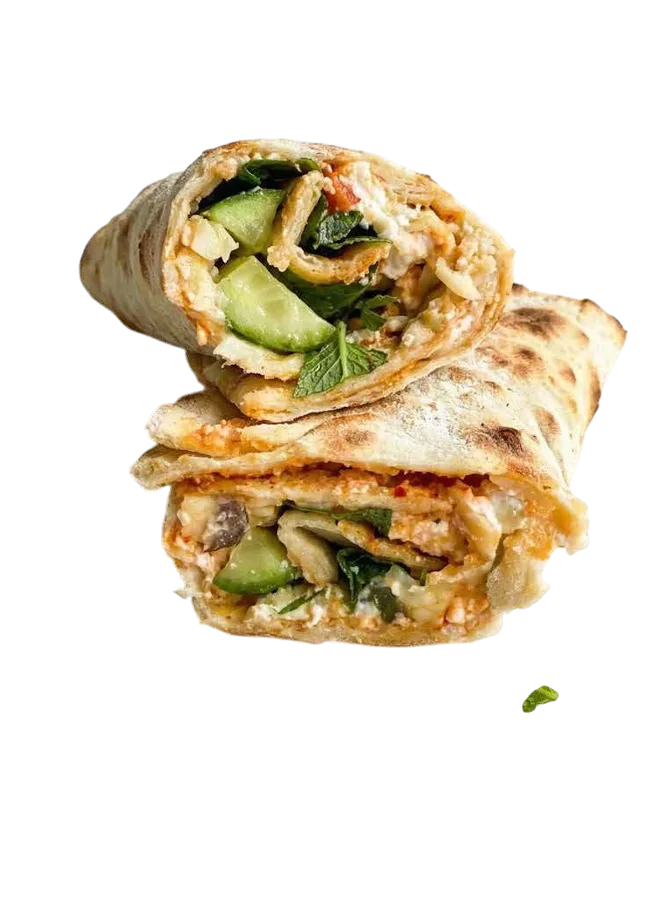
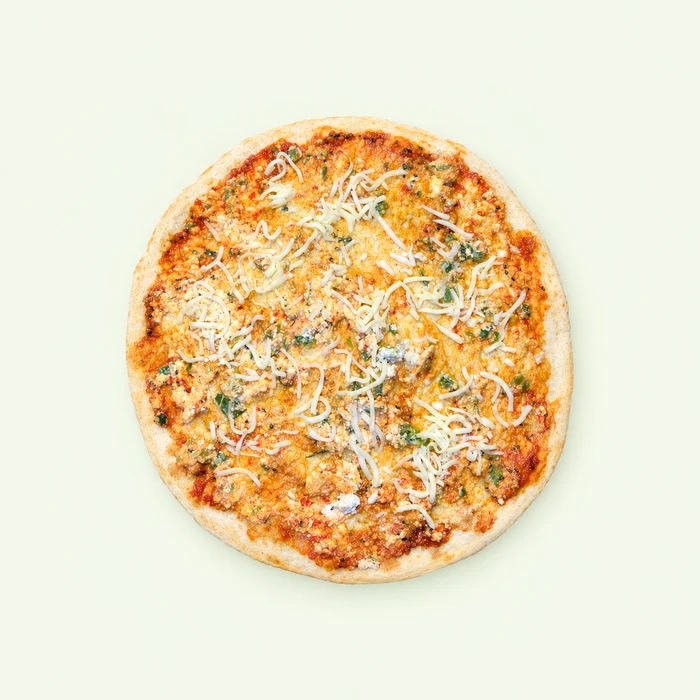
Update Khabzet Saj menu items and Bulghari photo
Rename Akkawi (Al-Nakka), add Bulghari cheese and 3 Cheese ingredients,
drop tomato from Mortadella, and use the new Bulghari Mix photo.

diff --git a/src/routes/menus/khabzetsaj.tsx b/src/routes/menus/khabzetsaj.tsx
@@ -49,6 +49,7 @@ type Product = {
   descriptionAr?: string;
   price: number;
   image?: string;
+  imageBg?: string;
   options?: ProductOption[];
 };
 
@@ -96,10 +97,16 @@ const categories: Category[] = [
       { name: "Keshek Baladi", ar: "كشك بلدي", price: 200000 },
       { name: "Keshek & Cheese", ar: "كشك وجبنة", price: 200000 },
       { name: "Akkawi Cheese", ar: "جبنة عكاوي", price: 200000 },
-      { name: "Akkawi (Al-Nakka)", ar: "جبنة عكاوي الناقة", price: 300000 },
+      { name: "Akkawi Cheese (Al-Nakka)", ar: "جبنة عكاوي الناقة", price: 300000 },
       { name: "Zaatar & Cheese", ar: "زعتر وجبنة", price: 200000 },
       { name: "Kashkaval Cheese", ar: "قشقوان", price: 300000 },
-      { name: "3 Cheese", ar: "٣ أجبان", price: 300000 },
+      {
+        name: "3 Cheese",
+        ar: "٣ أجبان",
+        description: "Akkawi - Mozzarella - Kashkaval",
+        descriptionAr: "عكاوي - موزاريلا - قشقوان",
+        price: 300000,
+      },
     ],
   },
   {
@@ -110,16 +117,17 @@ const categories: Category[] = [
       {
         name: "Bulghari Mix",
         ar: "خلطة بلغاري",
-        description: "mohamara paste - mozzarella - mint - cucumber",
-        descriptionAr: "صوص محمرة – موزاريلا – خيار – نعنع",
+        description: "Bulghari cheese - mohamara paste - mozzarella - mint - cucumber",
+        descriptionAr: "جبنة البلغاري – صوص محمرة – موزاريلا – خيار – نعنع",
         price: 300000,
         image: "/images/menus/khabzet-saj/bulghari.webp",
+        imageBg: "#f4f9ec",
       },
       {
         name: "Mortadella & Cheese",
         ar: "مرتديلا وجبنة",
-        description: "mayo mustard sauce - pickles - tomato - lettuce - corn",
-        descriptionAr: "مايو ماستيرد صوص – كبيس – بندورة – خس – ذرة",
+        description: "mayo mustard sauce - pickles - lettuce - corn",
+        descriptionAr: "مايو ماستيرد صوص – كبيس – خس – ذرة",
         price: 300000,
       },
       {
@@ -671,7 +679,10 @@ function ProductCard({
     <article className="overflow-hidden rounded-2xl border border-[#3d3d3d]/10 bg-white shadow-sm">
       <div className="flex items-stretch">
         {product.image ? (
-          <div className="flex w-28 shrink-0 items-center justify-center bg-[#97c11f]/10 sm:w-36">
+          <div
+            className="flex w-28 shrink-0 items-center justify-center bg-[#97c11f]/10 sm:w-36"
+            style={product.imageBg ? { backgroundColor: product.imageBg } : undefined}
+          >
             <img
               src={product.image}
               alt={product.name}
